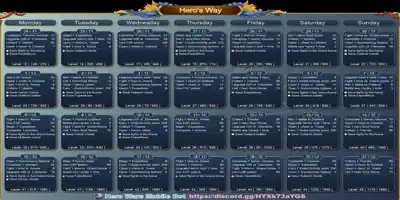
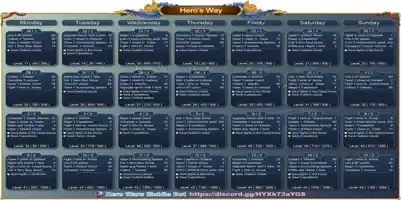
update

diff --git a/hero-wars-alliance/event-hwa/herosway-pt-hwa.html b/hero-wars-alliance/event-hwa/herosway-pt-hwa.html
@@ -5,7 +5,7 @@
 <meta http-equiv="X-UA-Compatible" content="IE=edge">
 <meta name="viewport" content="width=device-width, initial-scale=1.0">
 <meta property="article:published_time" content="2024-09-05T21:45-03:00" />
-<meta property="article:modified_time" content="2025-12-22T07:36-03:00" />
+<meta property="article:modified_time" content="2026-01-20T21:26-03:00" />
 <link rel="stylesheet" href="../../estilo13.css">
 
 <title>Lista Diária do Caminho do Herói para Jogadores de Hero Wars Alliance</title>
@@ -86,10 +86,16 @@ em ingles coloque todas as missoes do evento em html
 </pre>
 -->
 </head>
-
-
-
 <body>
+  <style>
+/* Força ocupar toda a tela em monitores grandes */
+@media (min-width: 1200px) {
+  .container {
+    max-width: 95% !important;
+    width: 100% !important;
+  }
+}
+</style>
 
 <!---------   HTML cookies BR  ------------>  
 <div id="cookie-banner" class="cookie-banner">
@@ -168,8 +174,8 @@ em ingles coloque todas as missoes do evento em html
 
     <p>O evento "Caminho do Herói" em Hero Wars oferece aos jogadores uma variedade de missões para completar diariamente. Essas tarefas são projetadas para melhorar a jogabilidade, fortalecer os heróis e ajudá-lo a ganhar recompensas valiosas, como recursos, equipamentos e melhorias para os heróis. Com duração de 30 dias, este evento apresenta novos desafios diariamente, incentivando a participação ativa em diversos aspectos do jogo, incluindo batalhas, aprimoramento de elementos e coleta de moedas valiosas dentro do jogo.</p>
 
-   <h2>Caminho do Herói de  Dezembro a Janeiro 2026</h2>
-<figure class="img-banner"> 
+   <h2>Caminho do Herói - Temporada do Drayne</h2>
+<figure> 
     <picture>
         <!-- Para telas grandes (PC) de 80kb a 150kb -->
         <source media="(min-width: 768px)" srcset="../../img-HWM/events-img/hero-way/hero-way-calendar.webp">
@@ -177,7 +183,8 @@ em ingles coloque todas as missoes do evento em html
         <img src="../../img-HWM/events-img/hero-way/hero-way-calendar-mobile-600px.webp" 
              alt="Ilustração das Missões do evento Caminho do Herói do jogo Hero Wars Alliance" 
              title="Missões Caminho do Herói - Hero Wars Alliance" 
-             loading="lazy">
+             loading="lazy"
+             style="max-width: 100%; height: auto;">
     </picture>
     <figcaption>
         Ilustração das Missões do Calendário Caminho do Herói do jogo Hero Wars Alliance.  

diff --git a/hero-wars-alliance/event-hwa/herosway-en-hwa.html b/hero-wars-alliance/event-hwa/herosway-en-hwa.html
@@ -7,7 +7,7 @@
 <meta name="viewport" content="width=device-width, initial-scale=1.0">
 <meta http-equiv="X-UA-Compatible" content="IE=edge">
 <meta property="article:published_time" content="2024-09-05T21:45-03:00" />
-<meta property="article:modified_time" content="2025-12-22T07:36-03:00" />
+<meta property="article:modified_time" content="2026-01-20T21:26-03:00" />
 <link rel="stylesheet" href="../../estilo13.css">
 
 <title>Daily Hero's Way Checklist for Hero Wars Alliance Players</title>
@@ -127,12 +127,16 @@
 </div>
 </header>
 <style>
-span {
-  display: block;
+/* Força ocupar toda a tela em monitores grandes */
+@media (min-width: 1200px) {
+  .container {
+    max-width: 95% !important;
+    width: 100% !important;
+  }
 }
 </style>
 
-<!-- top header div container adx-1 joinadscode -->
+
 <div class="ad-fold-container">
     <script async src="https://pagead2.googlesyndication.com/pagead/js/adsbygoogle.js?client=ca-pub-7838775403194689"
      crossorigin="anonymous"></script>
@@ -147,7 +151,7 @@ span {
      (adsbygoogle = window.adsbygoogle || []).push({});
 </script>
     </div>
-  <!-- top header div container adx-1 -->    
+  
 
 <!-- second half retirar melhora - pagespeed test</div> -->        
 <div id="second-half" class="hidden">
@@ -185,16 +189,17 @@ span {
 
 </section>
 
-<h2>Hero’s Way from December to January 2026</h2>
-<figure class="img-banner"> 
+<h2>Hero’s Way - Drayne Season</h2>
+<figure> 
     <picture>
-        <!-- For large screens (PC) from 80kb to 150kb -->
+        <!-- Para telas grandes (PC) de 80kb a 150kb -->
         <source media="(min-width: 768px)" srcset="../../img-HWM/events-img/hero-way/hero-way-calendar.webp">
-        <!-- For smaller screens (mobile) from 30kb to 70kb -->
+        <!-- Para telas menores (mobile) de 30kb a 70kb -->
         <img src="../../img-HWM/events-img/hero-way/hero-way-calendar-mobile-600px.webp" 
-             alt="Illustration of the Hero’s Way event missions in the game Hero Wars Alliance" 
+             alt="Hero’s Way Event Missions Illustration from Hero Wars Alliance game" 
              title="Hero’s Way Missions - Hero Wars Alliance" 
-             loading="lazy">
+             loading="lazy"
+             style="max-width: 100%; height: auto;">
     </picture>
     <figcaption>
         Illustration of the Hero’s Way Calendar Missions from the game Hero Wars Alliance.  
